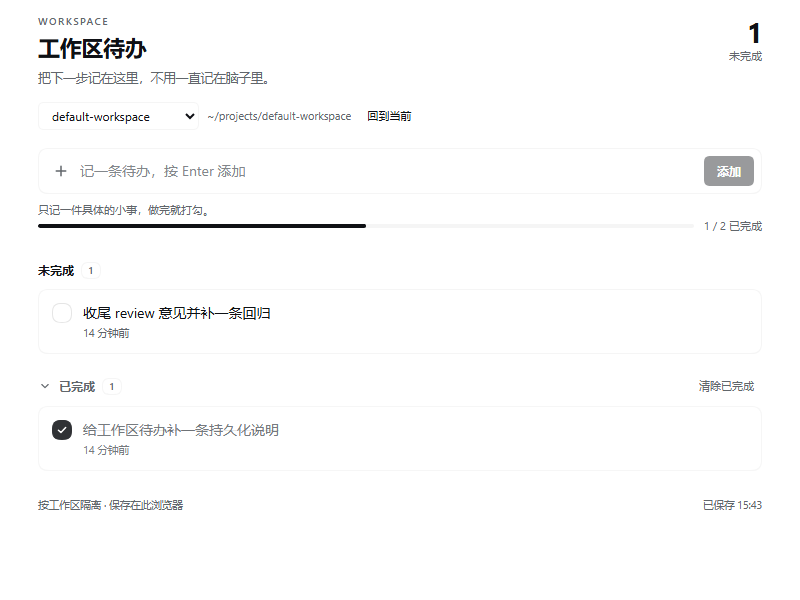
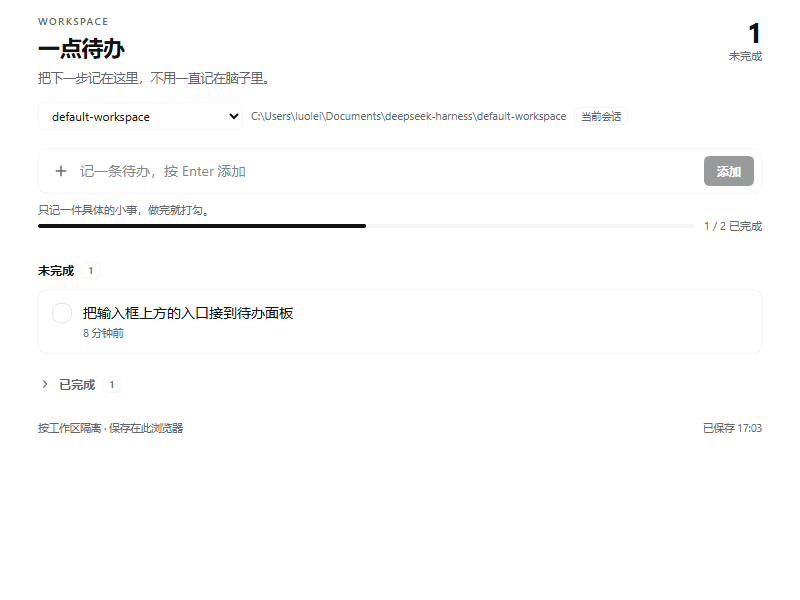
feat: add composer entry and rename to Yidian Todos

diff --git a/client.js b/client.js
@@ -14,13 +14,30 @@ window.__ModuleLoader__.load({
     const MAX_TEXT = 280
     /** Defensive cap so a corrupted store cannot freeze the panel. */
     const MAX_ITEMS = 300
+    /** Same-tab subscribers, so the composer dock's count follows panel edits. */
+    const TODO_LISTENERS = new Set()
+
+    /** Notify same-tab readers after a successful write (storage events only cross tabs). */
+    function notifyTodoChange() {
+      for (const listener of TODO_LISTENERS) {
+        try {
+          listener()
+        } catch (error) {
+          console.error('workspace-todos: listener failed', error)
+        }
+      }
+    }
 
     const DICT = {
       zh: {
-        'nav.label': '待办',
-        'title': '工作区待办',
+        'nav.label': '一点待办',
+        'title': '一点待办',
         'eyebrow': 'WORKSPACE',
         'subtitle': '把下一步记在这里，不用一直记在脑子里。',
+        'dock.label': '一点待办',
+        'dock.open': '打开一点待办',
+        'dock.count': '{n} 项未完成',
+        'dock.empty': '记一条',
         'workspace.label': '工作区',
         'workspace.follow': '回到当前',
         'workspace.current': '当前会话',
@@ -57,10 +74,14 @@ window.__ModuleLoader__.load({
         'state.noWorkspace.body': '先在侧边栏添加一个工作区，待办会跟着项目走。',
       },
       en: {
-        'nav.label': 'Todos',
-        'title': 'Workspace todos',
+        'nav.label': 'Yidian Todos',
+        'title': 'Yidian Todos',
         'eyebrow': 'WORKSPACE',
         'subtitle': 'Park the next small step here so it does not live rent-free in your head.',
+        'dock.label': 'Yidian Todos',
+        'dock.open': 'Open Yidian Todos',
+        'dock.count': '{n} open',
+        'dock.empty': 'Capture one',
         'workspace.label': 'Workspace',
         'workspace.follow': 'Back to current',
         'workspace.current': 'Current session',
@@ -178,6 +199,14 @@ window.__ModuleLoader__.load({
       '.dsh-wt-emptyBody{max-width:360px;font-size:12px;line-height:19px;color:var(--dsw-alias-label-secondary)}',
       '.dsh-wt-footer{display:flex;align-items:center;justify-content:space-between;gap:14px;margin:26px 0 0;font-size:10.5px;line-height:16px;color:var(--dsw-alias-label-secondary)}',
       '.dsh-wt-footRight{flex:none;font-variant-numeric:tabular-nums}',
+      '.dsh-wt-dock{display:flex;align-items:center;justify-content:flex-start;gap:8px;min-height:24px;margin:0 0 7px;padding:0 var(--dsh-composer-side-clearance,14px)}',
+      '.dsh-wt-dockBtn{display:inline-flex;align-items:center;gap:7px;height:27px;padding:0 10px;border:1px solid var(--dsw-alias-border-l1);border-radius:999px;background:var(--dsw-alias-bg-layer-2);color:var(--dsw-alias-label-secondary);font:inherit;font-size:11.5px;line-height:25px;cursor:pointer;transition:border-color .12s ease,background .12s ease,color .12s ease}',
+      '.dsh-wt-dockBtn:hover{border-color:var(--dsw-alias-border-l2);background:var(--dsw-alias-bg-layer-2);color:var(--dsw-alias-label-primary)}',
+      '.dsh-wt-dockBtn:focus-visible{outline:2px solid var(--dsw-alias-brand-primary);outline-offset:1px}',
+      '.dsh-wt-dockIcon{display:flex;align-items:center;justify-content:center;flex:none;width:14px;height:14px;color:var(--dsw-alias-brand-primary)}',
+      '.dsh-wt-dockLabel{font-weight:600;color:var(--dsw-alias-label-primary)}',
+      '.dsh-wt-dockCount{min-width:16px;padding:0 5px;border-radius:999px;background:var(--dsw-alias-brand-primary);color:var(--dsw-alias-bg-base);font-size:10px;line-height:16px;text-align:center;font-variant-numeric:tabular-nums}',
+      '.dsh-wt-dockMuted{color:var(--dsw-alias-label-secondary)}',
       '.dsh-wt-error{color:var(--dsw-alias-state-warning-primary)}',
       '@media (max-width:640px){.dsh-wt-shell{padding:22px 16px 56px}.dsh-wt-head{gap:16px}.dsh-wt-title{font-size:20px;line-height:28px}.dsh-wt-statNum{font-size:24px;line-height:28px}.dsh-wt-sub{font-size:12px}.dsh-wt-select{max-width:210px}.dsh-wt-row{padding:11px 10px}.dsh-wt-actions{opacity:1}}',
     ].join('')
@@ -330,6 +359,7 @@ window.__ModuleLoader__.load({
       }
       try {
         ls.setItem(STORAGE_KEY, JSON.stringify(store))
+        notifyTodoChange()
         return true
       } catch (error) {
         return false
@@ -677,7 +707,6 @@ window.__ModuleLoader__.load({
       return h(
         'div',
         { className: 'dsh-wt-page' },
-        h('style', null, CSS),
         h('div', { className: 'dsh-wt-shell' }, props.children),
       )
     }
@@ -1101,6 +1130,61 @@ window.__ModuleLoader__.load({
       )
     }
 
+    /**
+     * Compact management entry above the composer. It always exposes the
+     * current workspace's open count and opens the full panel in one click.
+     */
+    function InputDock(props) {
+      const useSessions = typeof props.useSessions === 'function' ? props.useSessions : selector => selector(undefined)
+      const useWorkspaces = typeof props.useWorkspaces === 'function' ? props.useWorkspaces : selector => selector(undefined)
+      const list = useSessions(state => state)
+      const snapshot = useWorkspaces(state => state)
+      const [, force] = React.useState(0)
+
+      React.useEffect(() => {
+        const listener = () => force(value => value + 1)
+        TODO_LISTENERS.add(listener)
+        const onStorage = event => {
+          if (event.key === STORAGE_KEY) listener()
+        }
+        window.addEventListener('storage', onStorage)
+        return () => {
+          TODO_LISTENERS.delete(listener)
+          window.removeEventListener('storage', onStorage)
+        }
+      }, [])
+
+      const workspace = currentWorkspaceOf(list, snapshot)
+      if (!workspace) return null
+
+      const { items } = readRecord(workspace)
+      const open = items.filter(item => !item.done).length
+      const say = props.say
+      const label = say('dock.label')
+      const detail = open > 0 ? say('dock.count', { n: open }) : say('dock.empty')
+      const aria = open > 0 ? `${say('dock.open')}, ${detail}` : say('dock.open')
+
+      return h(
+        'div',
+        { className: 'dsh-wt-dock' },
+        h(
+          'button',
+          {
+            type: 'button',
+            className: 'dsh-wt-dockBtn',
+            title: say('dock.open'),
+            'aria-label': aria,
+            onClick: props.openTodos,
+          },
+          h('span', { className: 'dsh-wt-dockIcon', 'aria-hidden': true }, h(PanelIcon, { size: 14 })),
+          h('span', { className: 'dsh-wt-dockLabel' }, label),
+          open > 0
+            ? h('span', { className: 'dsh-wt-dockCount' }, String(open))
+            : h('span', { className: 'dsh-wt-dockMuted' }, detail),
+        ),
+      )
+    }
+
     /** Translate through the locale service, falling back to the bundled copy. */
     function makeSay(ctx, getLocaleId) {
       const locale = ctx.get('locale')
@@ -1122,6 +1206,17 @@ window.__ModuleLoader__.load({
 
     function apply(ctx) {
       const locale = ctx.get('locale')
+
+      // One document-level sheet covers both the panel and the composer dock;
+      // the dock mounts outside the panel tree, so a panel-local <style> would
+      // leave it unstyled until the panel had been opened once.
+      ctx.effect(() => {
+        const style = document.createElement('style')
+        style.dataset.dshPlugin = 'workspace-todos'
+        style.textContent = CSS
+        document.head.appendChild(style)
+        return () => { style.remove() }
+      }, 'workspace-todos: styles')
 
       if (locale && typeof locale.register === 'function') {
         ctx.effect(() => locale.register(NS, DICT), 'workspace-todos: dictionaries')
@@ -1166,7 +1261,35 @@ window.__ModuleLoader__.load({
         return h(PanelIcon, props)
       }
 
+      function BoundInputDock(props) {
+        return h(InputDock, {
+          ...props,
+          say: translator(props),
+        })
+      }
+
       ctx.slots.inject('main', () => ctx.slots.register({ name: 'main', key: PANEL_ID, locale: NS }, BoundPanel))
+
+      ctx.slots.inject('conversation.input.dock', () =>
+        ctx.slots.register(
+          {
+            name: 'conversation.input.dock',
+            id: PANEL_ID,
+            order: 30,
+            locale: NS,
+            inject: () => ({
+              openTodos: () => {
+                try {
+                  ctx.layout.selectPanel(PANEL_ID)
+                } catch (error) {
+                  console.error('workspace-todos: open panel failed', error)
+                }
+              },
+            }),
+          },
+          BoundInputDock,
+        ),
+      )
 
       ctx.slots.inject('sidebar.panellist', () =>
         ctx.slots.register(
@@ -1182,6 +1305,6 @@ window.__ModuleLoader__.load({
       )
     }
 
-    return { inject: ['slots'], apply }
+    return { inject: ['slots', 'layout'], apply }
   },
 })

diff --git a/README.md b/README.md
@@ -1,14 +1,21 @@
-# 工作区待办 · Workspace Todos
+# 一点待办 · Yidian Todos
 
 [English](README.en.md) | 中文
 
+> 产品名是「一点待办」，仓库名沿用 `dsh-workspace-todos`。
+
 一个给 DSH Web GUI 用的轻量待办面板。它按**工作区**隔离：每个项目有自己的清单，切换项目不会串味。适合记录“下一步要做什么”这类简短事项，而不是完整的任务管理。
 
-![工作区待办面板](./preview.png)
+![一点待办面板](./preview.png)
+
+输入框上方的常驻入口：
+
+![输入框上方的入口](./preview-dock.png)
 
 ## 功能
 
-- 在侧边栏新增「待办」入口，主面板内快速记录。
+- 在侧边栏新增「一点待办」入口。
+- 在对话输入框上方常驻一个「一点待办」管理入口，显示当前工作区未完成数量，点击直接打开面板。
 - 按工作区隔离，自动跟随当前会话所属工作区；多工作区时可在顶部切换。
 - 回车添加，打勾完成；支持双击或铅笔按钮编辑、删除、清除已完成。
 - 显示完成进度、创建时间、已完成折叠区。
@@ -17,7 +24,7 @@
 
 ## 使用
 
-1. 点击侧边栏的「待办」图标。
+1. 点击侧边栏的「一点待办」，或输入框上方的「一点待办」入口。
 2. 在输入框里写一条具体的小事，按 Enter 或点「添加」。
 3. 做完后点左侧圆圈打勾；点「已完成」展开回看。
 4. 顶部可切换工作区；「回到当前」回到当前会话所属项目。
@@ -77,7 +84,8 @@ window.__ModuleLoader__.load({
 
 已在独立的 DSH profile 中实际加载，并用无头 Chrome 走通：
 
-- 侧边栏出现「待办」入口，主面板正常渲染；
+- 侧边栏出现「一点待办」入口，主面板正常渲染；
+- 输入框上方的入口显示未完成数量，点击可打开面板；
 - 添加、完成、编辑、删除、清除已完成、展开已完成；
 - 刷新页面后清单仍在，并按工作区隔离。
 

diff --git a/README.en.md b/README.en.md
@@ -1,14 +1,21 @@
-# Workspace Todos
+# Yidian Todos
 
 [中文](README.md) | English
 
+> Product name: **Yidian Todos** (一点待办). The repository keeps the `dsh-workspace-todos` name.
+
 A small todo panel for the DeepSeek Harness Web GUI. Each **workspace** keeps its own list, so moving between projects never mixes notes. It is meant for one-line next steps, not full task management.
 
-![Workspace todos panel](./preview.png)
+![Yidian Todos panel](./preview.png)
+
+The persistent chip above the chat input:
+
+![Yidian Todos entry above the composer](./preview-dock.png)
 
 ## Features
 
-- A **Todos** entry in the sidebar and a focused main panel.
+- A **Yidian Todos** entry in the sidebar.
+- A persistent **Yidian Todos** management chip above the chat input, showing the current workspace's open count and opening the panel in one click.
 - Per-workspace notes, following the workspace of the active session; switch workspaces from the header.
 - Add with Enter; complete, relabel, delete, and clear completed items.
 - Progress summary, creation time, and a collapsible completed section.
@@ -17,7 +24,7 @@ A small todo panel for the DeepSeek Harness Web GUI. Each **workspace** keeps it
 
 ## Usage
 
-1. Click **Todos** in the sidebar.
+1. Click **Yidian Todos** in the sidebar, or the chip above the chat input.
 2. Write one concrete next step and press Enter (or **Add**).
 3. Click the circle to complete it; expand **Completed** to look back.
 4. Use the header selector to switch projects; **Back to current** returns to the active session's workspace.

diff --git a/CHANGELOG.md b/CHANGELOG.md
@@ -1,5 +1,10 @@
 # Changelog
 
+## 1.1.0
+
+- Rename the product to **Yidian Todos** (一点待办).
+- Add a persistent management chip above the chat input, showing the current workspace's open count and opening the panel in one click.
+
 ## 1.0.0
 
 - Initial release: a sidebar todo panel scoped to each DSH workspace.
